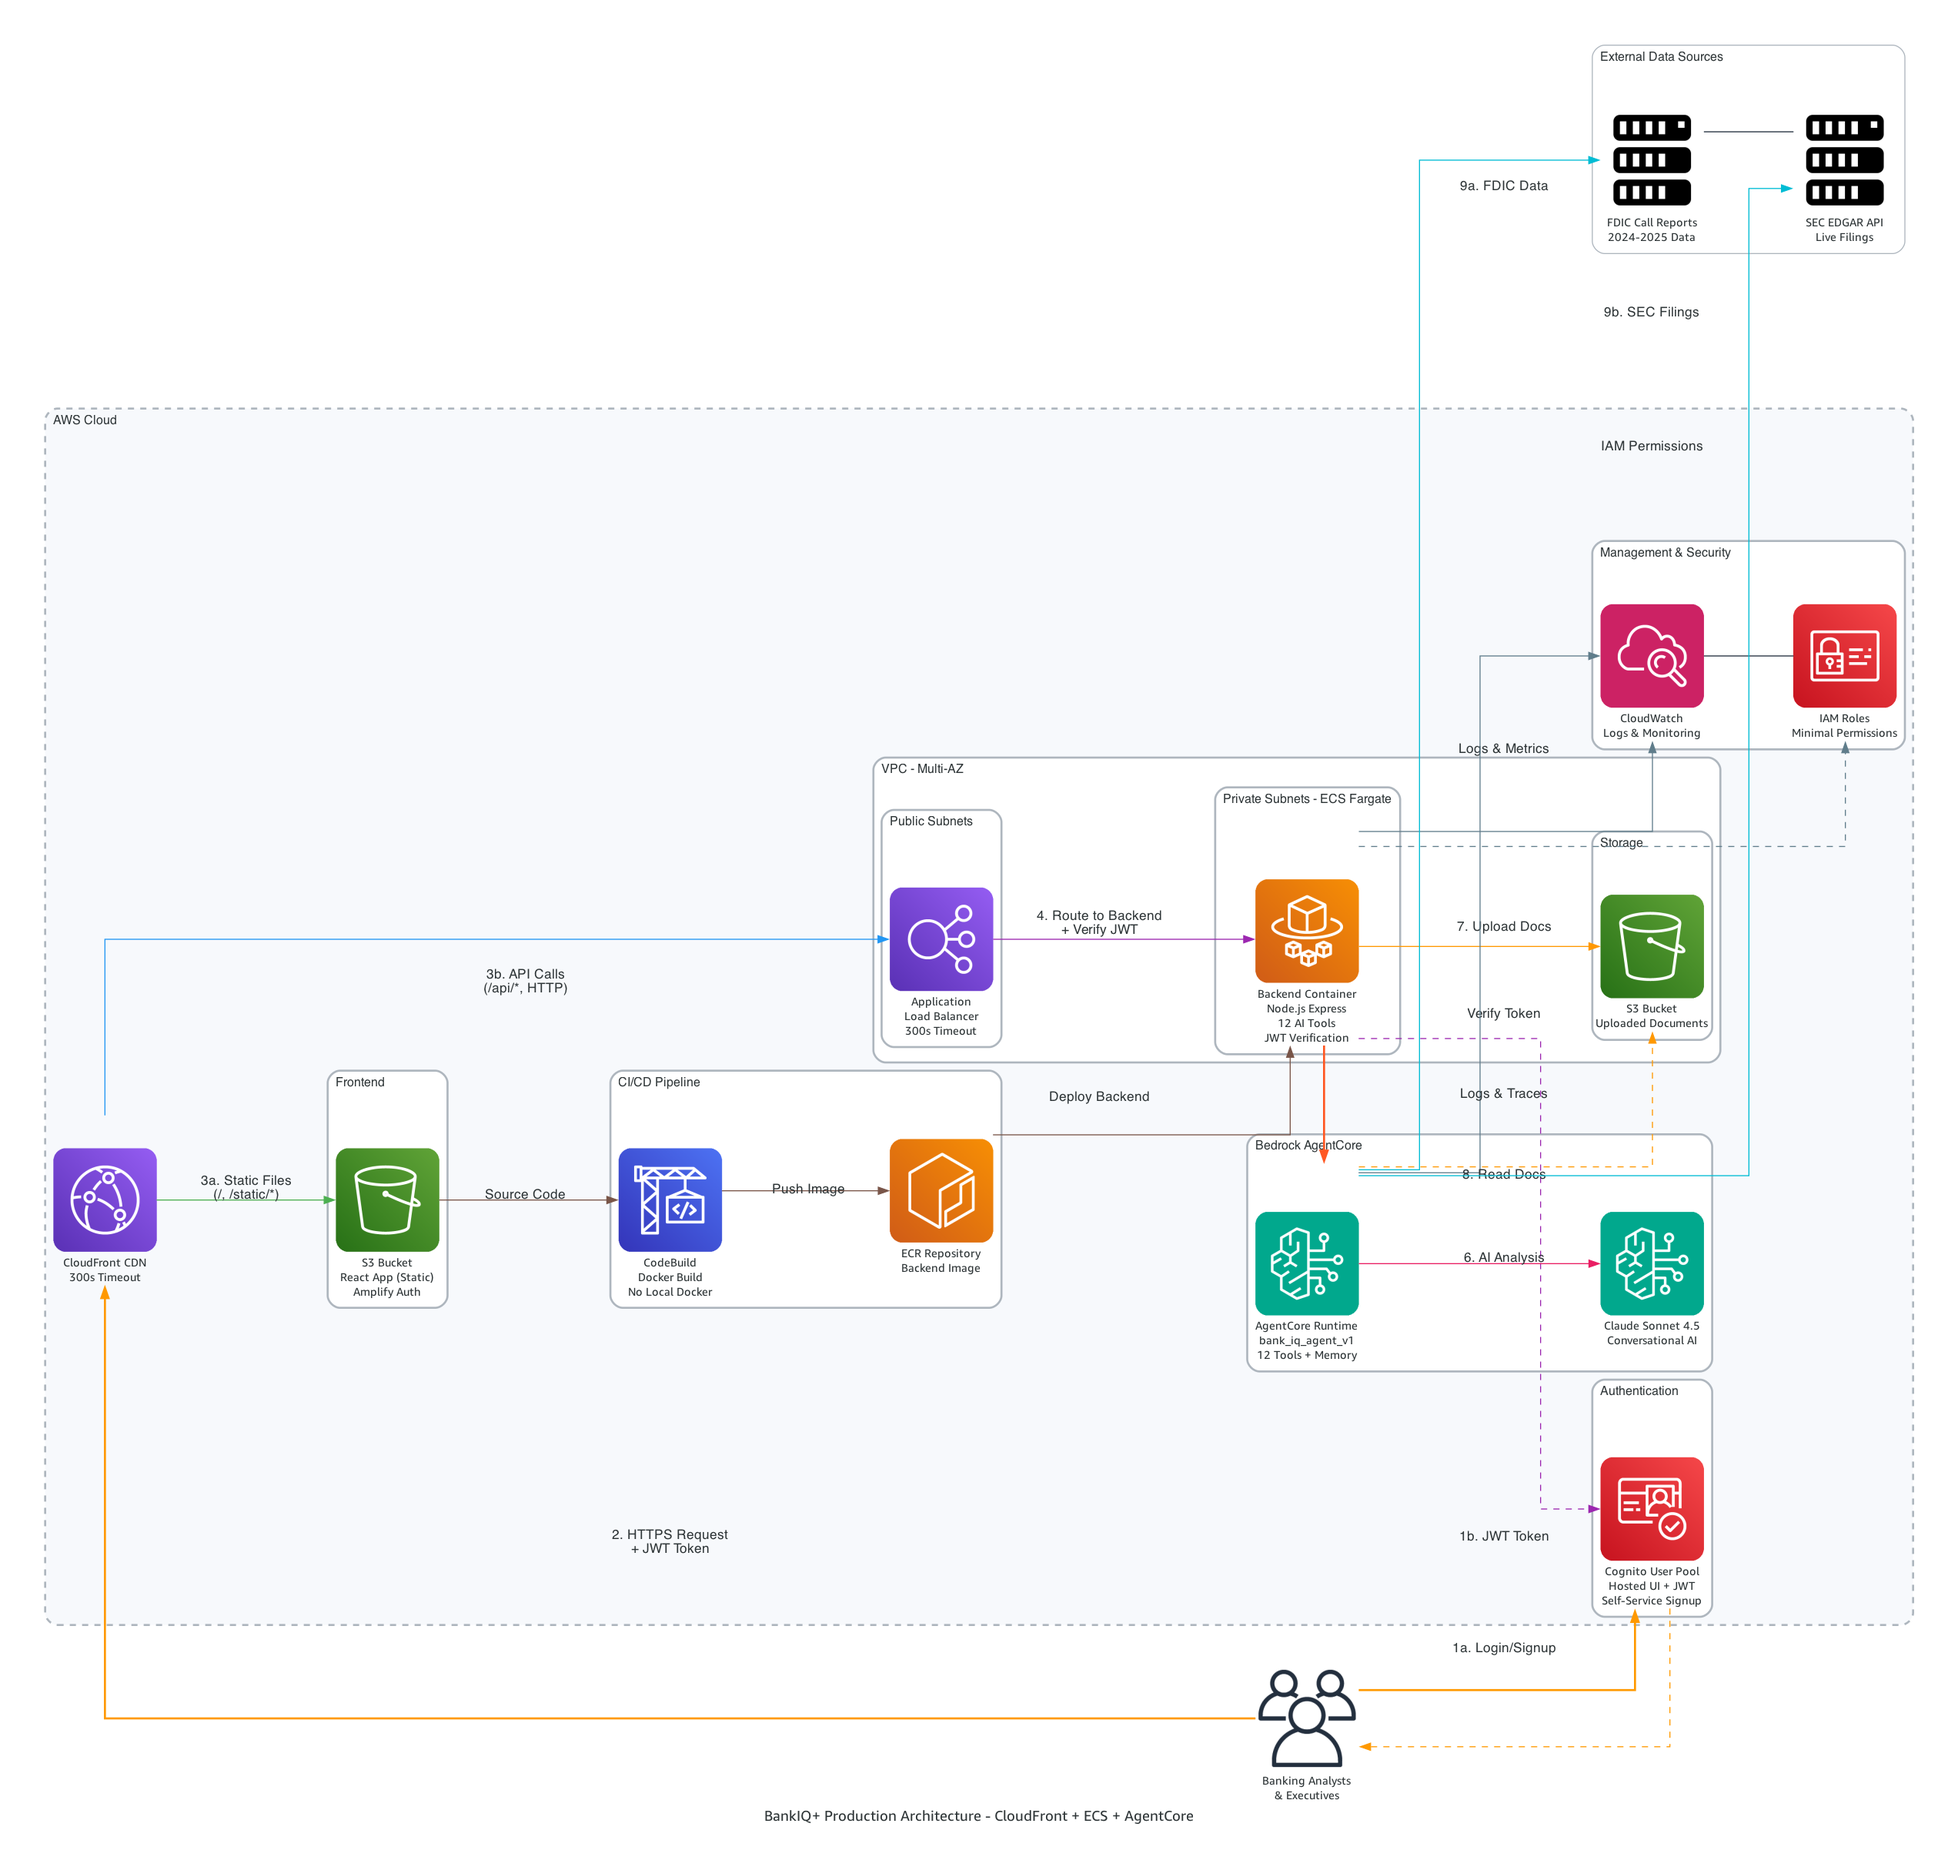
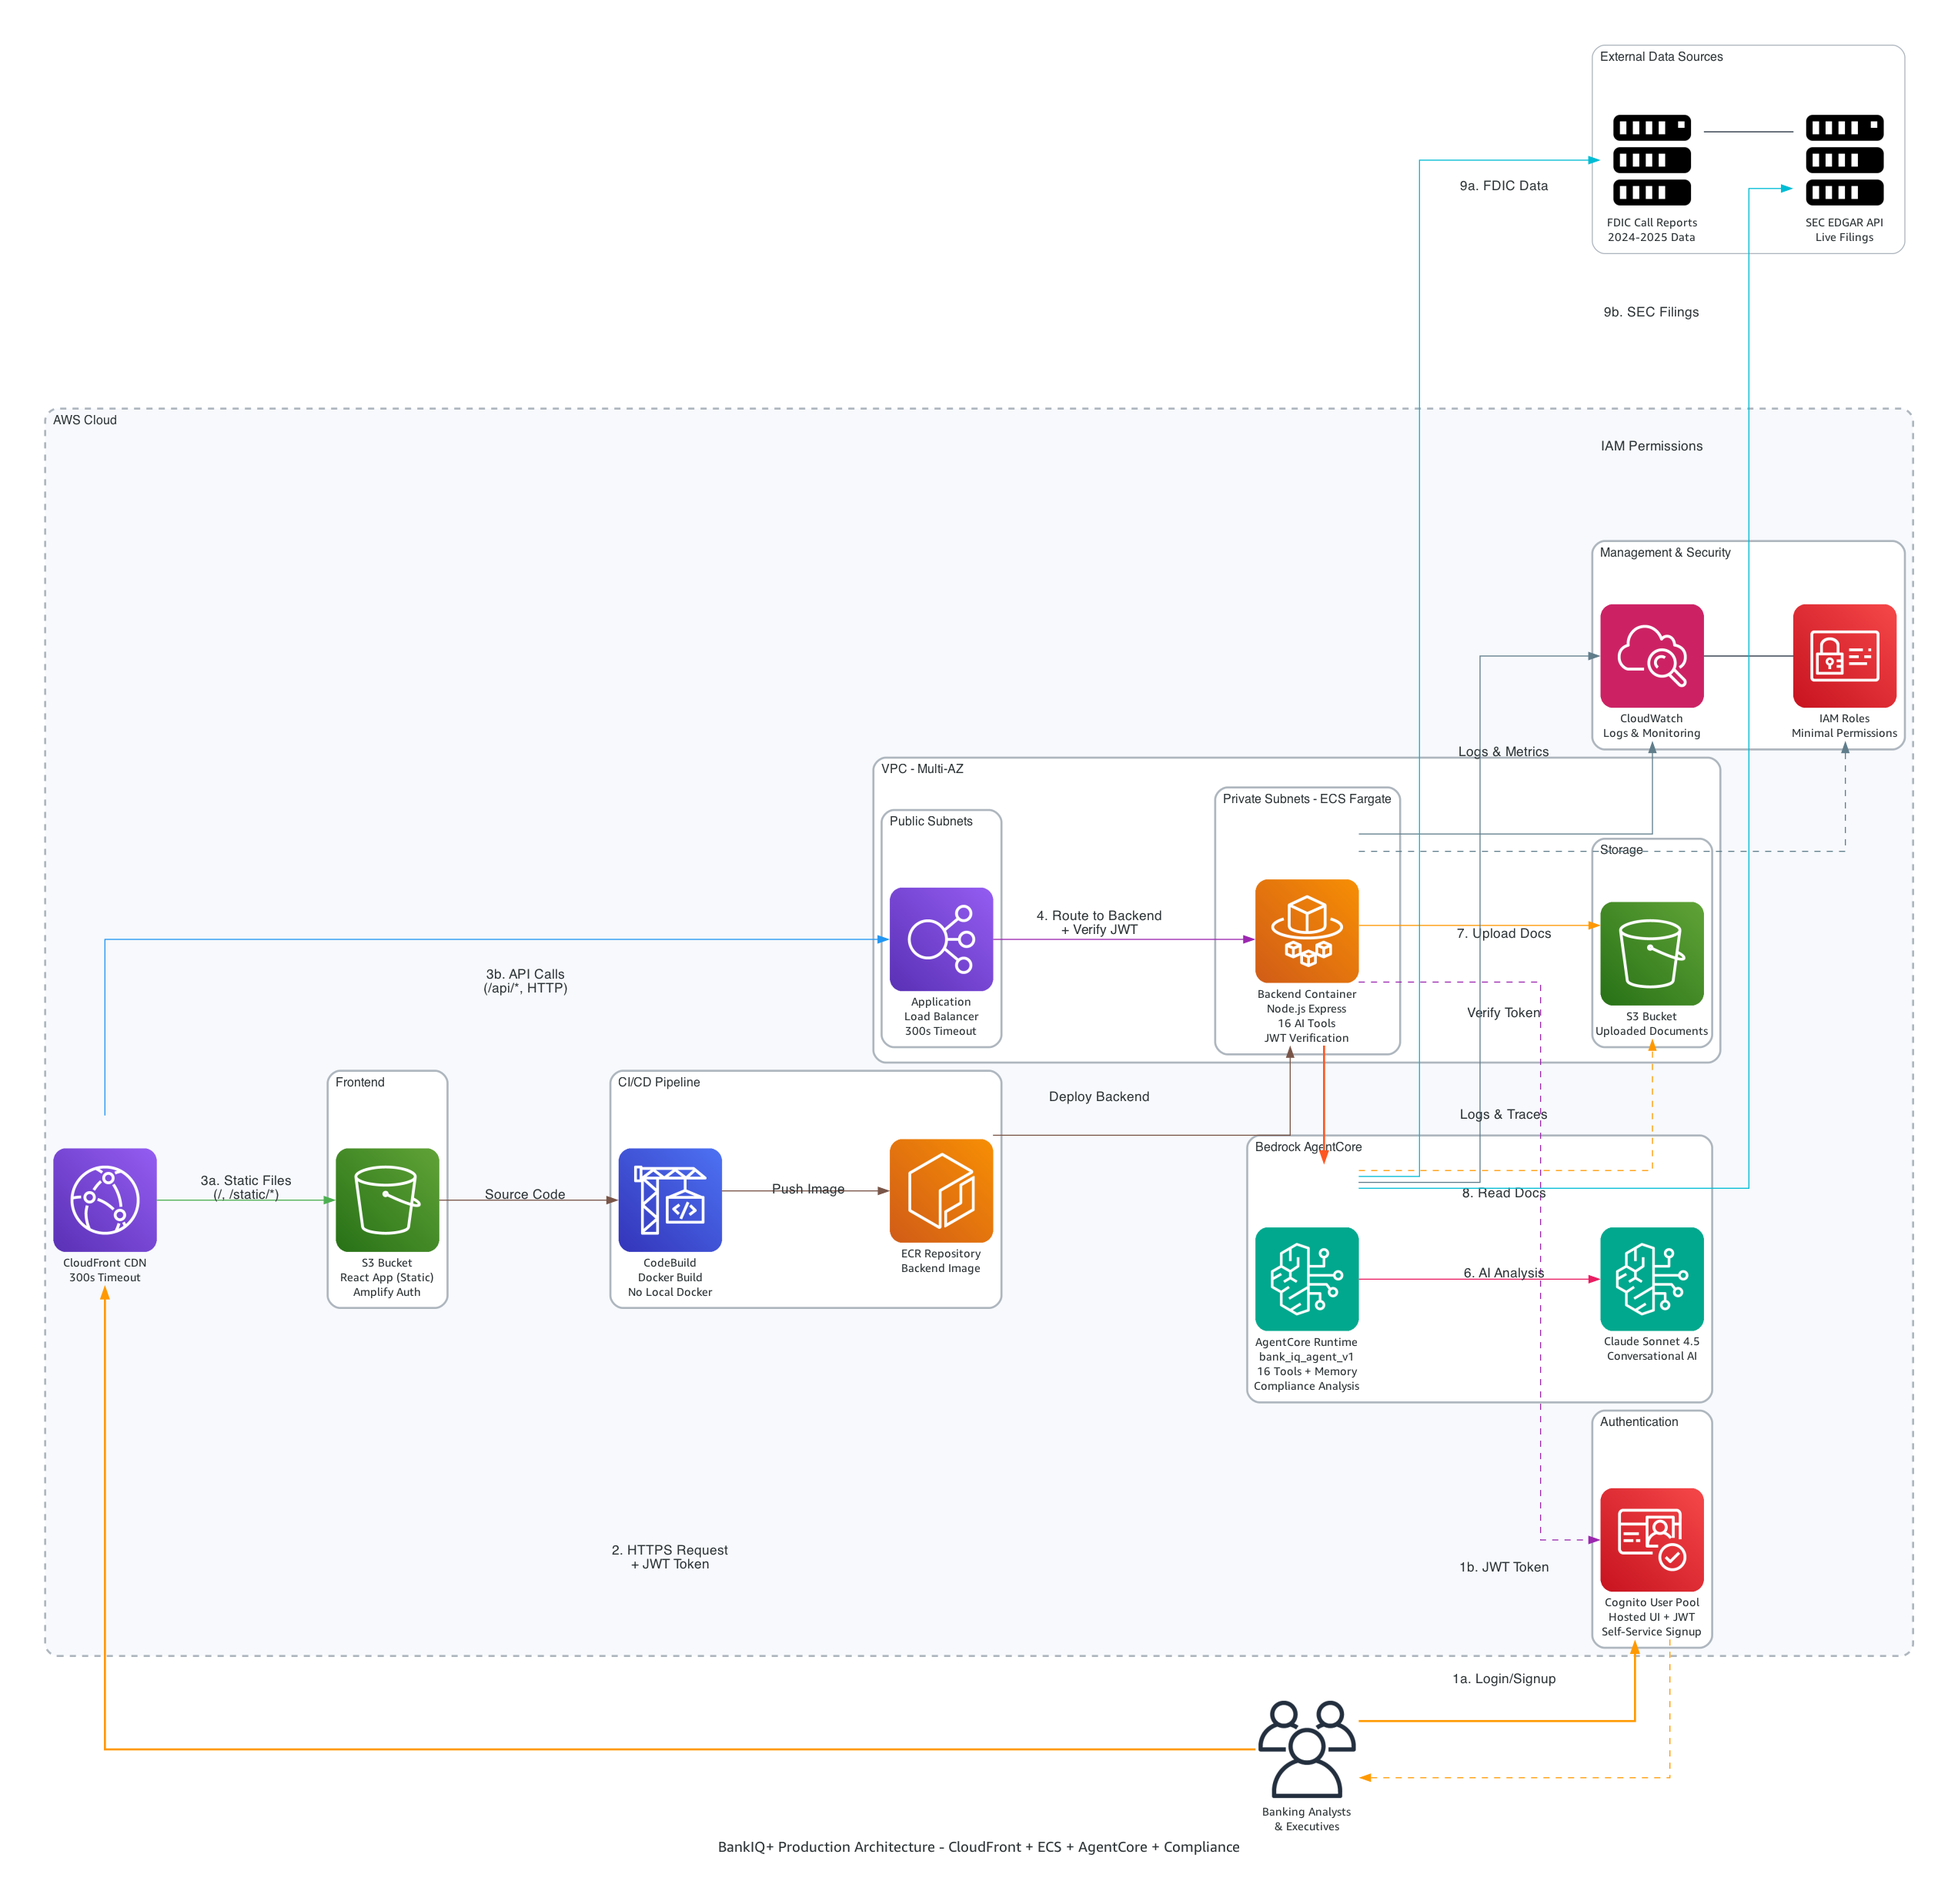
Update architecture diagram: 16 tools + compliance features
- Updated from 12 to 16 AI tools in AgentCore
- Added 'Compliance Analysis' to AgentCore runtime description
- Updated diagram title to include 'Compliance'
- Reflects new compliance & audit dashboard functionality

diff --git a/arch/banking_architecture_diagram.py b/arch/banking_architecture_diagram.py
@@ -37,7 +37,7 @@ edge_attr = {
 }
 
 with Diagram(
-    "BankIQ+ Production Architecture - CloudFront + ECS + AgentCore",
+    "BankIQ+ Production Architecture - CloudFront + ECS + AgentCore + Compliance",
     show=False,
     direction="LR",
     graph_attr=graph_attr,
@@ -72,7 +72,7 @@ with Diagram(
             
             # Private Subnets
             with Cluster("Private Subnets - ECS Fargate", graph_attr={"bgcolor": "white", "style": "rounded"}):
-                ecs_backend = Fargate("Backend Container\nNode.js Express\n12 AI Tools\nJWT Verification")
+                ecs_backend = Fargate("Backend Container\nNode.js Express\n16 AI Tools\nJWT Verification")
             
             # Data Services
             with Cluster("Storage", graph_attr={"bgcolor": "white", "style": "rounded"}):
@@ -80,7 +80,7 @@ with Diagram(
         
         # AgentCore Runtime
         with Cluster("Bedrock AgentCore", graph_attr={"bgcolor": "white", "style": "rounded"}):
-            agentcore = Bedrock("AgentCore Runtime\nbank_iq_agent_v1\n12 Tools + Memory")
+            agentcore = Bedrock("AgentCore Runtime\nbank_iq_agent_v1\n16 Tools + Memory\nCompliance Analysis")
             claude = Bedrock("Claude Sonnet 4.5\nConversational AI")
             
         # CI/CD Pipeline
